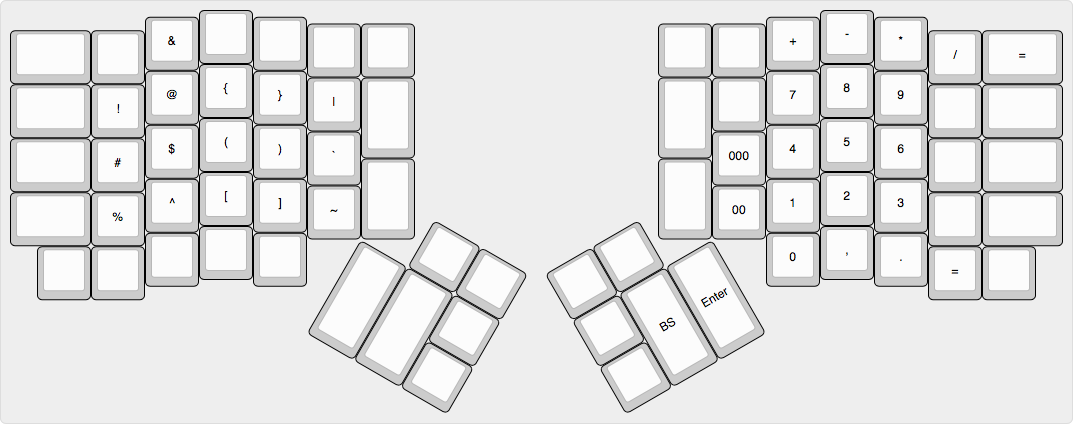
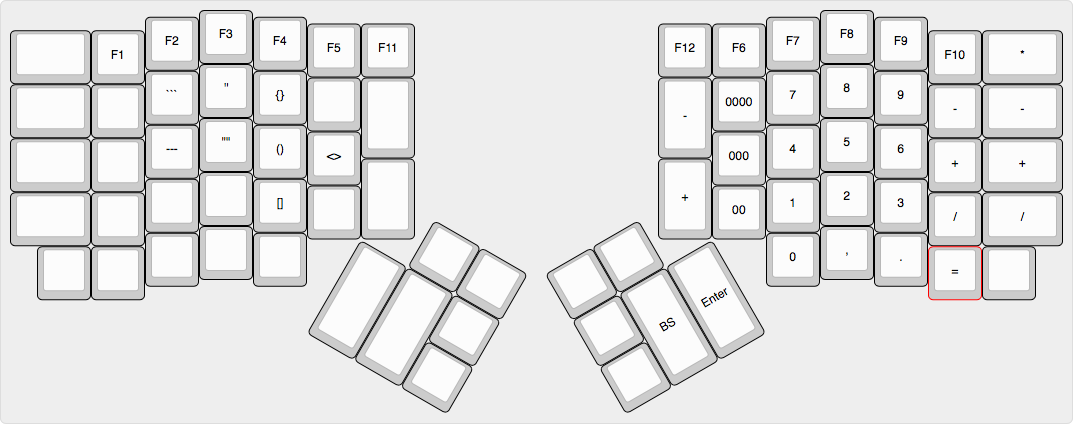
eucalynを試してみる

diff --git a/keymap.c b/keymap.c
@@ -3,17 +3,22 @@
 #include "action_layer.h"
 #include <sendstring_colemak.h>
 
-#define BASE 0 // default layer
-#define VIM 1 // vim
-#define SYMB 2 // symbols
-#define MOUS 3 // mouse
+#define EUCALYN 0 // eucalyn
+#define QWERTY 1 // qwerty layer
+#define VIM 2 // vim
+#define SYMB 3 // symbols
+#define MOUS 4 // mouse
+#define FUNC1 5 // function1
+#define FUNC2 6 // function2
 
 #define _______ KC_TRNS
+#define XXXXXXX KC_NO
 
 enum {
     M_RSFT,
     M_00,
     M_000,
+    M_0000,
     M_DBQUOT,
     M_BKQUOT,
     M_QUOT,
@@ -29,52 +34,95 @@ enum custom_keycodes {
 };
 
 const uint16_t PROGMEM keymaps[][MATRIX_ROWS][MATRIX_COLS] = {
-/* Keymap 0: base layer
+/* Keymap 0: Eucalyn layer
  *
  *
  * ,--------------------------------------------------.           ,--------------------------------------------------.
- * |  L1    | 1 !  | 2 @  | 3 #  | 4 $  | 5 %  |      |           |      | 6 ^  | 7 &  | 8 *  | 9 (  | 0 )  | PrtSc  |
+ * | VIM    | 1 !  | 2 @  | 3 #  | 4 $  | 5 %  |      |           |      | 6 ^  | 7 &  | 8 *  | 9 (  | 0 )  |  \ |   |
  * |--------+------+------+------+------+------+------|           |------+------+------+------+------+------+--------|
- * | Tab    |   Q  |   W  |   E  |   R  |   T  |  ~`  |           |      |   Y  |   U  |   I  |   O  |   P  |  \ |   |
+ * | TAB    | ? /  | < ,  | > .  |   F  |   Q  |  ~   |           |      |   M  |   R  |   D  |   Y  |   P  |  + =   |
+ * |--------+------+------+------+------+------|  `   |           |      |------+------+------+------+------+--------|
+ * | ⌃      |   A  |   O  |   E  |   I  |   U  |------|           |------|   G  |   T  |   K  |   S  |   N  |  " '   |
+ * |--------+------+------+------+------+------|  {   |           |  }   |------+------+------+------+------+--------|
+ * | LShift |   Z  |   X  |   C  |   V  |   W  |  [   |           |  ]   |   B  |   H  |   J  |   L  | : ;  |  - _   |
+ * `--------+------+------+------+------+-------------'           `-------------+------+------+------+------+--------'
+ *   | ~L2  | ~FN1 |GuiAlt| Alt  |  Gui |                                       |  Gui | ESC  |      |      |  FN0 |
+ *   `----------------------------------'                                       `----------------------------------'
+ *                                        ,-------------.       ,---------------.
+ *                                        | App  | F12  |       |Qwerty| PrtSc  |
+ *                                 ,------|------|------|       |------+--------+------.
+ *                                 |      |      | Home |       | PgUp |        |      |
+ *                                 |Space/| Tab/ |------|       |------|  Back  |Enter |
+ *                                 | VIM  | SYMB | End  |       | PgDn |  Space |      |
+ *                                 `--------------------'       `----------------------'
+ */
+[EUCALYN] = LAYOUT_ergodox(  // layer 4 : eucalyn
+        // left hand
+        DF(VIM),      KC_1,    KC_2,        KC_3,       KC_4,              KC_5,    XXXXXXX,
+        KC_TAB,       KC_SLSH, KC_COMM,     KC_DOT,     KC_F,              KC_Q,    KC_GRV,
+        CTL_T(KC_NO), KC_A,    KC_O,        KC_E,       KC_I,              KC_U,
+        KC_LSFT,      KC_Z,    KC_X,        KC_C,       KC_V,              KC_W,    KC_LBRC,
+        MO(MOUS),     KC_FN1,  LGUI(KC_LALT),KC_LALT,    GUI_T(KC_LANG2),
+// -----
+                                                        KC_APP,            KC_F12,
+                                                                           KC_HOME,
+                                     LT(VIM, KC_SPC),   LT(SYMB, KC_TAB),  KC_END,
+// -----
+        // right hand
+        XXXXXXX,      KC_6,    KC_7,    KC_8,     KC_9,    KC_0,     KC_BSLS,
+        XXXXXXX,      KC_M,    KC_R,    KC_D,     KC_Y,    KC_P,     KC_EQL,
+                      KC_G,    KC_T,    KC_K,     KC_S,    KC_N,     KC_QUOT,
+        KC_RBRC,      KC_B,    KC_H,    KC_J,     KC_L,    KC_SCLN,  KC_MINS,
+                               GUI_T(KC_LANG1),   M_ESC,   XXXXXXX,  XXXXXXX,  KC_FN0,
+// -----
+        DF(QWERTY),   KC_PSCREEN,
+        KC_PGUP,
+        KC_PGDN,      LT(FUNC1, KC_BSPC),  LT(FUNC2, KC_ENT)
+),
+/* Keymap qwerty layer
+ *
+ *
+ * ,--------------------------------------------------.           ,--------------------------------------------------.
+ * |  VIM   | 1 !  | 2 @  | 3 #  | 4 $  | 5 %  |      |           |      | 6 ^  | 7 &  | 8 *  | 9 (  | 0 )  |  \ |   |
+ * |--------+------+------+------+------+------+------|           |------+------+------+------+------+------+--------|
+ * | Tab    |   Q  |   W  |   E  |   R  |   T  | ~ `  |           |      |   Y  |   U  |   I  |   O  |   P  |  = +   |
  * |--------+------+------+------+------+------|      |           |      |------+------+------+------+------+--------|
  * | Ctl    |   A  |   S  |   D  |   F  |   G  |------|           |------|   H  |   J  |   K  |   L  | ; :  |  " '   |
  * |--------+------+------+------+------+------| - _  |           | = +  |------+------+------+------+------+--------|
- * | LShift |   Z  |   X  |   C  |   V  |   B  |      |           |      |   N  |   M  | , <  |  . > |  / ? | RShift |
+ * | LShift |   Z  |   X  |   C  |   V  |   B  |      |           |      |   N  |   M  | , <  |  . > |  / ? |  - _   |
  * `--------+------+------+------+------+-------------'           `-------------+------+------+------+------+--------'
  *   | ~L2  | ~FN1 |      | Alt  |  Gui |                                       |  Gui | Esc  |  [ { |  ] } |  FN0 |
  *   `----------------------------------'                                       `----------------------------------'
  *                                        ,-------------.       ,---------------.
- *                                        | App  |      |       |      |        |
+ *                                        | App  |  F12 |       |Eucaly| PrtSc  |
  *                                 ,------|------|------|       |------+--------+------.
  *                                 |      |      | Home |       | PgUp |        |      |
  *                                 |Space/| Tab/ |------|       |------|  Back  |Enter |
- *                                 |L1    | L2   | End  |       | PgDn |  Space |      |
+ *                                 |VIM   | SYMB | End  |       | PgDn |  Space |      |
  *                                 `--------------------'       `----------------------'
  */
-// If it accepts an argument (i.e, is a function), it doesn't need KC_.
-// Otherwise, it needs KC_*
-[BASE] = LAYOUT_ergodox(  // layer 0 : default
+[QWERTY] = LAYOUT_ergodox(
         // left hand
         DF(VIM),      KC_1,    KC_2,        KC_3,       KC_4,              KC_5,    ALL_T(KC_NO),
         KC_TAB,       KC_Q,    KC_W,        KC_E,       KC_R,              KC_T,    KC_GRV,
         CTL_T(KC_NO), KC_A,    KC_S,        KC_D,       KC_F,              KC_G,
         KC_LSFT,      KC_Z,    KC_X,        KC_C,       KC_V,              KC_B,    KC_MINS,
-        MO(MOUS),     KC_FN1,  KC_NO,       KC_LALT,    GUI_T(KC_LANG2),
+        MO(MOUS),     KC_FN1,  XXXXXXX,     KC_LALT,    GUI_T(KC_LANG2),
 // -----
-                                                  ALT_T(KC_APP),     KC_NO,
+                                                  KC_APP,            KC_F12,
                                                                      KC_HOME,
                                LT(VIM, KC_SPC),   LT(SYMB, KC_TAB),  KC_END,
 // -----
         // right hand
-        KC_NO,        KC_6,    KC_7,    KC_8,     KC_9,    KC_0,     KC_PSCREEN,
-        KC_NO,        KC_Y,    KC_U,    KC_I,     KC_O,    KC_P,     KC_BSLS,
+        XXXXXXX,      KC_6,    KC_7,    KC_8,     KC_9,    KC_0,     KC_BSLS,
+        XXXXXXX,      KC_Y,    KC_U,    KC_I,     KC_O,    KC_P,     KC_EQL,
                       KC_H,    KC_J,    KC_K,     KC_L,    KC_SCLN,  KC_QUOT,
-        KC_EQL,       KC_N,    KC_M,    KC_COMM,  KC_DOT,  KC_SLSH,  KC_RSFT,
+        KC_EQL,       KC_N,    KC_M,    KC_COMM,  KC_DOT,  KC_SLSH,  KC_MINS,
                                GUI_T(KC_LANG1),   M_ESC,   KC_LBRC,  KC_RBRC,  KC_FN0,
 // -----
-        KC_NO,        KC_NO,
+        DF(EUCALYN),  XXXXXXX,
         KC_PGUP,
-        KC_PGDN,      KC_BSPC,  KC_ENT
+        KC_PGDN,      LT(FUNC1, KC_BSPC),  LT(FUNC2, KC_ENT)
     ),
 /* Keymap 1: Vim Nomal Mode
  *
@@ -87,7 +135,7 @@ const uint16_t PROGMEM keymaps[][MATRIX_ROWS][MATRIX_COLS] = {
  * |--------+------+------+------+------+------|      |           |      |------+------+------+------+------+--------|
  * |        |      | Del  |      |Select| PgUp |      |           |      |      | Menu |      |      | Find |        |
  * `--------+------+------+------+------+-------------'           `-------------+------+------+------+------+--------'
- *   | ~L2  |      |      |      |      |                                       |      |      |      |      |      |
+ *   |      |      |      |      |      |                                       |      |      |      |      |      |
  *   `----------------------------------'                                       `----------------------------------'
  *                                        ,-------------.       ,-------------.
  *                                        |      |      |       |      |      |
@@ -99,39 +147,39 @@ const uint16_t PROGMEM keymaps[][MATRIX_ROWS][MATRIX_COLS] = {
  */
 // Vim Mode
 [VIM] = LAYOUT_ergodox(
-       KC_ESC,   KC_NO,     KC_NO,             KC_NO,       LCTL(KC_E),            KC_NO,      KC_NO,
-       _______,  _______,   LALT(KC_RIGHT),    KC_END,      LGUI(LSFT(KC_Z)),      LGUI(KC_T), _______,
-       _______,  DF(BASE),  LGUI(LALT(KC_F)),  LGUI(KC_X),  KC_PGDN,               KC_HOME,
+       KC_ESC,   XXXXXXX,   XXXXXXX,           XXXXXXX,     LCTL(KC_E),            XXXXXXX,    XXXXXXX,
+       _______,  XXXXXXX,   LALT(KC_RIGHT),    KC_END,      LGUI(LSFT(KC_Z)),      LGUI(KC_T), _______,
+       _______,  DF(QWERTY),LGUI(LALT(KC_F)),  LGUI(KC_X),  KC_PGDN,               KC_HOME,
        _______,  _______,   KC_DELT,           _______,     LALT(LSFT(KC_RIGHT)),  KC_PGUP,    _______,
-       MO(VIM),  _______,   _______,           _______,     _______,
+       _______,  _______,   _______,           _______,     _______,
 // -----
                                                _______,     _______,
                                                             _______,
                                    _______,    _______,     _______,
 // -----
     // right hand
-       KC_NO,    LCTL(KC_A), KC_NO,      KC_NO,    KC_NO,     LCTL(KC_A),  _______,
-       _______,  LGUI(KC_C), LGUI(KC_Z), DF(BASE), DF(BASE),  LGUI(KC_V),  _______,
-                 KC_LEFT,    KC_DOWN,    KC_UP,    KC_RIGHT,  LALT(KC_SPC),_______,
-       _______,  _______,    LCTL(KC_F2),_______,  _______,   LGUI(KC_F),  _______,
-                             _______,    _______,  _______,   _______,     KC_FN2,
+       XXXXXXX,  LCTL(KC_A), XXXXXXX,    XXXXXXX,    XXXXXXX,    LCTL(KC_A),    _______,
+       _______,  LGUI(KC_C), LGUI(KC_Z), DF(QWERTY), DF(QWERTY), LGUI(KC_V),    _______,
+                 KC_LEFT,    KC_DOWN,    KC_UP,      KC_RIGHT,   LALT(KC_SPC),  _______,
+       _______,  _______,    LCTL(KC_F2),_______,    _______,    LGUI(KC_F),    _______,
+                             _______,    _______,    _______,    _______,       KC_FN2,
 // -----
-       _______,  OSL(BASE),
+       _______,  OSL(QWERTY),
        _______,
        _______,  KC_DELT, _______
 ),
 /* Keymap 2: 10key Symbol Layer
- * 
+ *
  * ,--------------------------------------------------.           ,--------------------------------------------------.
- * |        |  F1  |  F2  |  F3  |  F4  |  F5  | F11  |           | F12  |  F6  |  F7  |  F8  |  F9  |  F10 |   /    |
+ * |        |  F1  |  F2  |  F3  |  F4  |  F5  | F11  |           | F12  |  F6  |  F7  |  F8  |  F9  |  F10 |   *    |
  * |--------+------+------+------+------+-------------|           |------+------+------+------+------+------+--------|
- * |        |      | ```  |  ''  |  {}  |      |  /   |           |  -   |      |   7  |   8  |   9  |      |   -    |
+ * |        |      | ```  |  ''  |  {}  |      |      |           |  -   | 0000 |   7  |   8  |   9  |  -   |   -    |
  * |--------+------+------+------+------+------|      |           |      |------+------+------+------+------+--------|
- * |        |      | ---  |  ""  |  ()  |  <>  |------|           |------| 000  |   4  |   5  |   6  |      |   +    |
- * |--------+------+------+------+------+------|  *   |           |  +   |------+------+------+------+------+--------|
- * |        |      |      |      |  []  |      |      |           |      | 00   |   1  |   2  |   3  |  /   |   *    |
+ * |        |      | ---  |  ""  |  ()  |  <>  |------|           |------| 000  |   4  |   5  |   6  |  +   |   +    |
+ * |--------+------+------+------+------+------|      |           |  +   |------+------+------+------+------+--------|
+ * |        |      |      |      |  []  |      |      |           |      | 00   |   1  |   2  |   3  |  /   |   /    |
  * `--------+------+------+------+------+-------------'           `-------------+------+------+------+------+--------'
- *   |      |      |      |      |      |                                       |   0  |      |   .  |  ,   |      |
+ *   |      |      |      |      |      |                                       |   0  |   ,  |   .  |  =   |      |
  *   `----------------------------------'                                       `----------------------------------'
  *                                        ,-------------.       ,-------------.
  *                                        |      |      |       |      |      |
@@ -145,22 +193,22 @@ const uint16_t PROGMEM keymaps[][MATRIX_ROWS][MATRIX_COLS] = {
 [SYMB] = LAYOUT_ergodox(
        // left hand
        _______,  KC_F1,    KC_F2,       KC_F3,       KC_F4,    KC_F5,    KC_F11,
-       _______,  _______,  M(M_BKQUOT), M(M_QUOT),   M(M_CBR), _______,  _______,
-       _______,  _______,  M(M_MINS),   M(M_DBQUOT), M(M_PRN), M(M_TAG),
-       _______,  _______,  _______,     _______,     M(M_BRC), _______,  _______,
+       _______,  XXXXXXX,  M(M_BKQUOT), M(M_QUOT),   M(M_CBR), XXXXXXX,  XXXXXXX,
+       _______,  XXXXXXX,  M(M_MINS),   M(M_DBQUOT), M(M_PRN), M(M_TAG),
+       _______,  XXXXXXX,  XXXXXXX,     XXXXXXX,     M(M_BRC), XXXXXXX,  XXXXXXX,
        _______,  _______,  _______,     _______,     _______,
                                                                _______,  _______,
                                                                          _______,
                                                      _______,  _______,  _______,
        // right hand
-       KC_F12,   KC_F6,    KC_F7,    KC_F8,    KC_F9,    KC_F10,    KC_SLSH,
-       _______,  _______,  KC_7,     KC_8,     KC_9,     _______,   KC_MINS,
-                 M(M_000), KC_4,     KC_5,     KC_6,     _______,   KC_PLUS,
-       _______,  M(M_00),  KC_1,     KC_2,     KC_3,     _______,   KC_ASTR,
-                           KC_0,     KC_NO,    KC_DOT,   KC_COMM,   _______,
+       KC_F12,   KC_F6,     KC_F7,    KC_F8,    KC_F9,    KC_F10,    KC_ASTR,
+       KC_MINS,  M(M_0000), KC_7,     KC_8,     KC_9,     KC_MINS,   KC_MINS,
+                 M(M_000),  KC_4,     KC_5,     KC_6,     KC_PLUS,   KC_PLUS,
+       KC_PLUS,  M(M_00),   KC_1,     KC_2,     KC_3,     KC_SLSH,   KC_SLSH,
+                            KC_0,     KC_COMM,  KC_DOT,   KC_EQL,    _______,
        _______,  _______,
        _______,
-       _______,  KC_BSPC,  KC_EQL
+       _______,  KC_BSPC,   KC_EQL
 ),
 /* Keymap 3: mouse keys
  *
@@ -188,27 +236,109 @@ const uint16_t PROGMEM keymaps[][MATRIX_ROWS][MATRIX_COLS] = {
        KC_POWER,KC_F1,   KC_F2,    KC_F3,    KC_F4,    KC_F5,   KC_F11,
        RESET,   KC_F6,   KC_F7,    KC_F8,    KC_F9,    KC_F10,  KC_WH_U,
        _______, KC_F1,   KC_F2,    KC_F3,    KC_F4,    KC_F5,
-       _______, KC_NO,   KC_ACL2,  KC_ACL1,  KC_ACL0,  KC_NO,   KC_WH_L,
+       _______, XXXXXXX, KC_ACL2,  KC_ACL1,  KC_ACL0,  XXXXXXX, KC_WH_L,
        _______, _______, _______,  _______,  _______,
                                              _______,  _______,
                                                        _______,
                                    KC_WH_U,  KC_WH_L,  _______,
     // right handa
-       _______,  _______, _______, _______, _______, _______, _______,
-       KC_WH_D,  _______, _______, KC_MS_U, _______, _______, KC_MPLY,
-                 _______, KC_MS_L, KC_MS_D, KC_MS_R, _______, KC_MNXT,
-       KC_WH_R,  _______, _______, _______, _______, _______, KC_MPRV,
+       _______,  _______, _______, _______, _______, _______, XXXXXXX,
+       KC_WH_D,  XXXXXXX, XXXXXXX, KC_MS_U, XXXXXXX, XXXXXXX, KC_MPLY,
+                 XXXXXXX, KC_MS_L, KC_MS_D, KC_MS_R, XXXXXXX, KC_MNXT,
+       KC_WH_R,  XXXXXXX, XXXXXXX, XXXXXXX, XXXXXXX, XXXXXXX, KC_MPRV,
                           KC_BTN1, KC_BTN2, KC_BTN3, KC_BTN4, KC_BTN5,
        KC_MUTE,  _______,
        KC_VOLU,
        KC_VOLD,  KC_WH_R, KC_WH_D
 ),
+/* Keymap 5: function
+ *
+ * ,--------------------------------------------------.           ,--------------------------------------------------.
+ * |        |      |      |      |      |      |      |           |      |      |      |      |      |      |   -    |
+ * |--------+------+------+------+------+-------------|           |------+------+------+------+------+------+--------|
+ * |        |   1  |   2  |   3  |   4  |   5  |      |           |      |  6   |  7   |   8  |   9  |   0  |   \    |
+ * |--------+------+------+------+------+------|  F11 |           |  F13 |------+------+------+------+------+--------|
+ * |        |  F1  |  F2  |  F3  |  F4  |  F5  |------|           |------|      |      |      |      |      |   =    |
+ * |--------+------+------+------+------+------|      |           |      |------+------+------+------+------+--------|
+ * |        |  F6  |  F7  |  F8  |  F9  |  F10 |  F12 |           |  F14 |      |      |      |      |      |   '    |
+ * `--------+------+------+------+------+-------------'           `-------------+------+------+------+------+--------'
+ *   |      |      |      |      |      |                                       |      |      |      |      |      |
+ *   `----------------------------------'                                       `----------------------------------'
+ *                                        ,-------------.       ,-------------.
+ *                                        |      |      |       |      |      |
+ *                                 ,------|------|------|       |------+------+------.
+ *                                 |      |      |      |       |      |      |      |
+ *                                 |      |      |------|       |------|      |      |
+ *                                 |      |      |      |       |      |      |      |
+ *                                 `--------------------'       `--------------------'
+ */
+// function1
+[FUNC1] = LAYOUT_ergodox(
+       _______, XXXXXXX, XXXXXXX,  XXXXXXX,  XXXXXXX,  XXXXXXX, XXXXXXX,
+       _______, KC_1,    KC_2,     KC_3,     KC_4,     KC_5,    KC_F11,
+       _______, KC_F1,   KC_F2,    KC_F3,    KC_F4,    KC_F5,
+       _______, KC_F6,   KC_F7,    KC_F8,    KC_F9,    KC_F10,  KC_F12,
+       _______, _______, _______,  _______,  _______,
+                                             _______,  _______,
+                                                       _______,
+                                   _______,  _______,  _______,
+    // right handa
+       XXXXXXX,  XXXXXXX, XXXXXXX, XXXXXXX, XXXXXXX, XXXXXXX, KC_MINS,
+       KC_F13,   KC_6,    KC_7,    KC_8,    KC_9,    KC_0,    KC_BSLS,
+                 XXXXXXX, XXXXXXX, XXXXXXX, XXXXXXX, XXXXXXX, KC_EQL,
+       KC_F14,   XXXXXXX, XXXXXXX, XXXXXXX, XXXXXXX, XXXXXXX, KC_QUOT,
+                          _______, _______, XXXXXXX, XXXXXXX, XXXXXXX,
+       _______,  _______,
+       _______,
+       _______,  _______, _______
+),
+/* Keymap 6: function2
+ *
+ * ,--------------------------------------------------.           ,--------------------------------------------------.
+ * |        |      |      |      |      |      |      |           |      |      |      |      |      |      |        |
+ * |--------+------+------+------+------+-------------|           |------+------+------+------+------+------+--------|
+ * |        |      |      |      |      |      |      |           |      |      |      |      |   <  |   >  |   |    |
+ * |--------+------+------+------+------+------|      |           |      |------+------+------+------+------+--------|
+ * |        |   !  |   @  |   #  |   $  |   %  |------|           |------|   ^  |   &  |   *  |   (  |   )  |   '    |
+ * |--------+------+------+------+------+------|      |           |      |------+------+------+------+------+--------|
+ * |        |      |      |      |      |      |      |           |      |      |      |      |   {  |   }  |   +    |
+ * `--------+------+------+------+------+-------------'           `-------------+------+------+------+------+--------'
+ *   |      |      |      |      |      |                                       |      |      |   [  |   ]  |      |
+ *   `----------------------------------'                                       `----------------------------------'
+ *                                        ,-------------.       ,-------------.
+ *                                        |      |      |       |      |      |
+ *                                 ,------|------|------|       |------+------+------.
+ *                                 |      |      |      |       |      |      |      |
+ *                                 |      |      |------|       |------|      |      |
+ *                                 |      |      |      |       |      |      |      |
+ *                                 `--------------------'       `--------------------'
+ */
+// function2
+[FUNC2] = LAYOUT_ergodox(
+       _______, XXXXXXX, XXXXXXX,  XXXXXXX,  XXXXXXX,  XXXXXXX, XXXXXXX,
+       _______, XXXXXXX, XXXXXXX,  XXXXXXX,  XXXXXXX,  XXXXXXX, XXXXXXX,
+       _______, KC_EXLM, KC_AT,    KC_HASH,  KC_DLR,   KC_PERC,
+       _______, XXXXXXX, XXXXXXX,  XXXXXXX,  XXXXXXX,  XXXXXXX, XXXXXXX,
+       _______, _______, _______,  _______,  _______,
+                                             _______,  _______,
+                                                       _______,
+                                   _______,  _______,  _______,
+    // right handa
+       XXXXXXX,  XXXXXXX, XXXXXXX, XXXXXXX, XXXXXXX, XXXXXXX, XXXXXXX,
+       XXXXXXX,  XXXXXXX, XXXXXXX, XXXXXXX, KC_LT,   KC_GT,   KC_PIPE,
+                 KC_CIRC, KC_AMPR, KC_ASTR, KC_LPRN, KC_RPRN, KC_QUOT,
+       XXXXXXX,  XXXXXXX, XXXXXXX, XXXXXXX, KC_LCBR, KC_RCBR, KC_PLUS,
+                          _______, _______, KC_LBRC, KC_RBRC, XXXXXXX,
+       _______,  _______,
+       _______,
+       _______,  _______, _______
+),
 };
 
 const uint16_t PROGMEM fn_actions[] = {
-    [0] = ACTION_FUNCTION(BASE),
+    [0] = ACTION_FUNCTION(QWERTY),
     [1] = ACTION_LAYER_TAP_TOGGLE(MOUS),                // FN1 - Momentary Layer 1 (Symbols)
-    [2] = ACTION_LAYER_MOMENTARY(BASE)
+    [2] = ACTION_LAYER_MOMENTARY(QWERTY)
 };
 
 bool process_record_user(uint16_t keycode, keyrecord_t *record) {
@@ -243,6 +373,11 @@ const macro_t *action_get_macro(keyrecord_t *record, uint8_t id, uint8_t opt)
         case M_000:
             if (record->event.pressed) {
                 return MACRO( I(25), T(P0), T(P0), T(P0), END );
+            }
+            break;
+        case M_0000:
+            if (record->event.pressed) {
+                return MACRO( I(25), T(P0), T(P0), T(P0), T(P0), END );
             }
             break;
         case M_DBQUOT:

diff --git a/config.h b/config.h
@@ -1,4 +1,7 @@
-#include QMK_KEYBOARD_CONFIG_H
+#ifndef ERGODOX_EZ_CONFIG_H
+#define ERGODOX_EZ_CONFIG_H
+#endif
+#include "config_common.h"
 
 #define ONESHOT_TAP_TOGGLE 3  /* Tapping this number of times holds the key until tapped this number of times again. */
 #define ONESHOT_TIMEOUT 5000  /* Time (in ms) before the one shot key is released */
